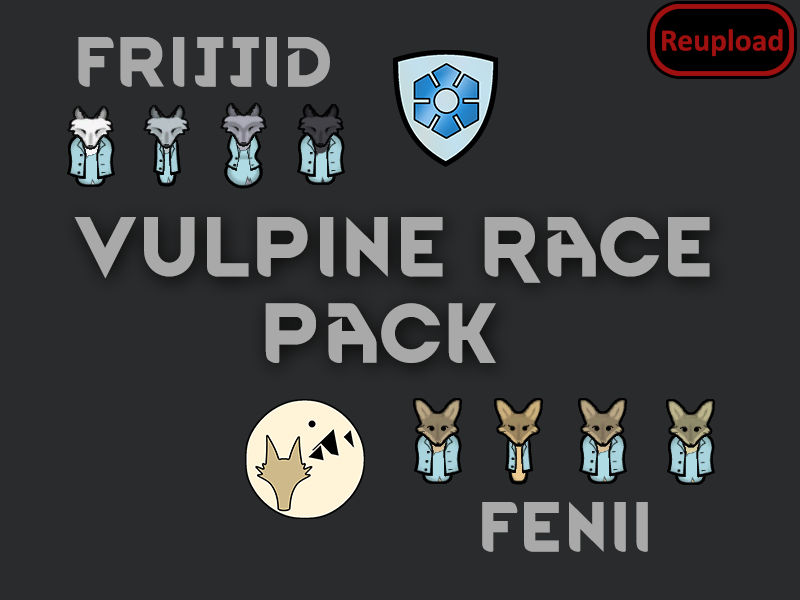
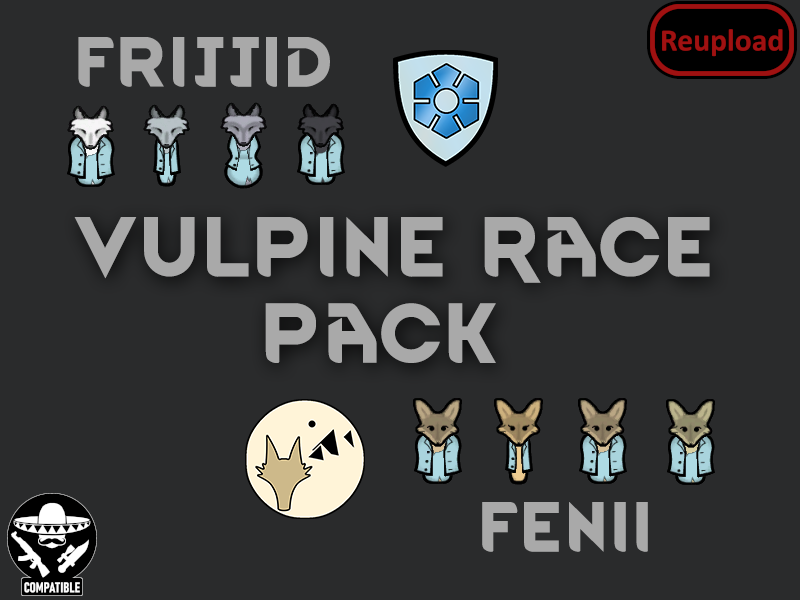
Verified CE-support

Changed region(s): [[0.0, 0.81, 0.125, 1.0]]

diff --git a/README.md b/README.md
@@ -5,6 +5,8 @@
 Update of Xens mod
 https://steamcommunity.com/sharedfiles/filedetails/?id=2018389163
 
+- Verified CE-support
+
 ![Image](https://i.imgur.com/7Gzt3Rg.png)
 
 	
